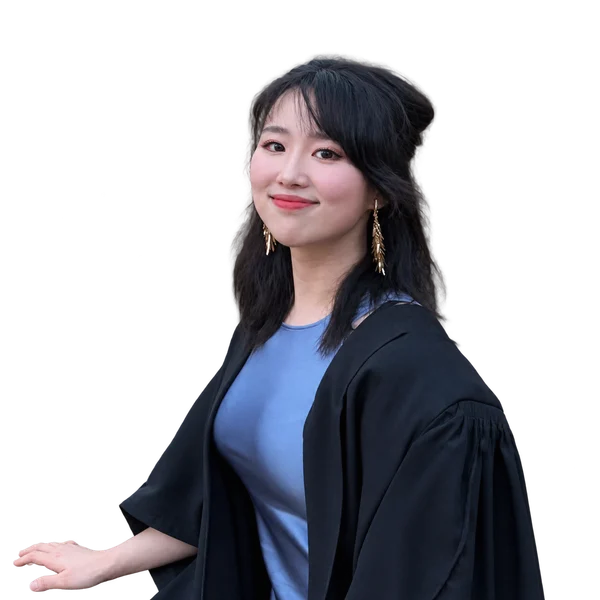
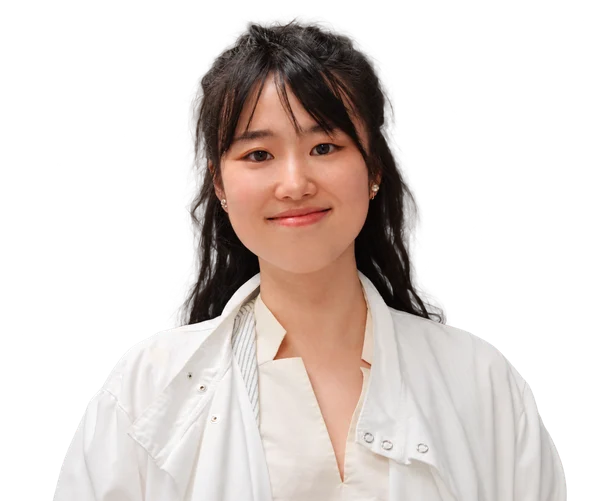
Replace Cherub's team portrait with user-provided lab photograph

diff --git a/zh/people.html b/zh/people.html
@@ -7,7 +7,7 @@
   <title>团队成员 — TVPlab</title>
   <link rel="stylesheet" href="../styles.css?v=9" />
   <link rel="stylesheet" href="../refresh.css?v=20260920-3" />
-  <link rel="stylesheet" href="../people.css?v=20260920-1" />
+  <link rel="stylesheet" href="../people.css?v=20260920-2" />
   <script src="../people.js?v=20260920-1" defer></script>
   <script src="../site.js?v=20260920-2" defer></script>
 <link rel="alternate" hreflang="en" href="../people.html" /><link rel="alternate" hreflang="zh-CN" href="people.html" />
@@ -158,7 +158,7 @@
   <div class="team-bio"><p>博士研究方向为脂肪生物学与免疫代谢。</p></div>
 </details><details class="team-card" id="kaida" data-team-category="students">
   <summary>
-    <span class="team-portrait"><img src="../images/team/kaida.webp" alt="" width="600" height="600" loading="lazy" decoding="async" /></span>
+    <span class="team-portrait"><img src="../images/team/kaida.webp?v=20260920-2" alt="" width="600" height="501" loading="lazy" decoding="async" /></span>
     <span class="team-caption"><span class="team-name">Cherub Kaida Wu</span><span class="team-role">博士研究生 · 实验室传播负责人</span></span>
     <span class="team-toggle" aria-hidden="true"></span><span class="visually-hidden">查看个人简介</span>
   </summary>

diff --git a/people.html b/people.html
@@ -7,7 +7,7 @@
   <title>Our People — TVPlab, Cambridge</title>
   <link rel="stylesheet" href="styles.css?v=9" />
   <link rel="stylesheet" href="refresh.css?v=20260920-3" />
-  <link rel="stylesheet" href="people.css?v=20260920-1" />
+  <link rel="stylesheet" href="people.css?v=20260920-2" />
   <script src="people.js?v=20260920-1" defer></script>
   <script src="site.js?v=20260920-2" defer></script>
 <link rel="alternate" hreflang="en" href="people.html" /><link rel="alternate" hreflang="zh-CN" href="zh/people.html" />
@@ -158,7 +158,7 @@
   <div class="team-bio"><p >PhD research in adipose biology and immunometabolism.</p></div>
 </details><details class="team-card" id="kaida" data-team-category="students">
   <summary>
-    <span class="team-portrait"><img src="images/team/kaida.webp" alt="" width="600" height="600" loading="lazy" decoding="async" /></span>
+    <span class="team-portrait"><img src="images/team/kaida.webp?v=20260920-2" alt="" width="600" height="501" loading="lazy" decoding="async" /></span>
     <span class="team-caption"><span class="team-name">Cherub Kaida Wu</span><span class="team-role">PhD · Lab Communication Director</span></span>
     <span class="team-toggle" aria-hidden="true"></span><span class="visually-hidden">Read biography</span>
   </summary>

diff --git a/people.css b/people.css
@@ -35,3 +35,5 @@
 
 /* Balance wider source photographs within the portrait window. */
 #mark,#rodrigo{--portrait-scale:1.25}#ruoqi{--portrait-scale:1.08}
+
+#kaida{--portrait-scale:1.2}

diff --git a/IMAGE_SOURCES.md b/IMAGE_SOURCES.md
@@ -38,5 +38,7 @@ Shared prompt specification: Remove background only, preserving the photographed
 | `images/team/ruoqi.webp` | RUOQI DU | https://static.wixstatic.com/media/7bd939_9b62412b45dc4c63b6f8cf0a04221758~mv2.jpeg |
 | `images/team/possawee.webp` | POSSAWEE PRASERTSUK | https://static.wixstatic.com/media/7bd939_22d5f80b7432413cb79a95945e5ffb84~mv2.jpg |
 | `images/team/iman.webp` | IMAN MALI | https://static.wixstatic.com/media/7bd939_260714cd118545e5a4de195e529630c4~mv2.png |
-| `images/team/kaida.webp` | CHERUB KAIDA WU | https://static.wixstatic.com/media/7bd939_0b22476d7dbc4e3a92e59424f691e6bc~mv2.jpg |
+| `images/team/kaida.webp` | CHERUB KAIDA WU | User-provided `IMG_1499.JPG`, 20 September 2026; replaces the previous Wix portrait. |
 | `images/team/rodrigo.webp` | DR. RODRIGO SANTOS | https://static.wixstatic.com/media/7bd939_d161bb9d573f4cecb6245259487ded70~mv2.png |
+
+Cherub's replacement uses the same built-in background-removal edit mode and WebP export settings. Prompt: extract the photographed woman in her white laboratory coat, preserving identity, expression, hair, earrings, clothing, warm lighting, posture and proportions; remove laboratory scenery and retain true alpha transparency, full head and available upper torso.
